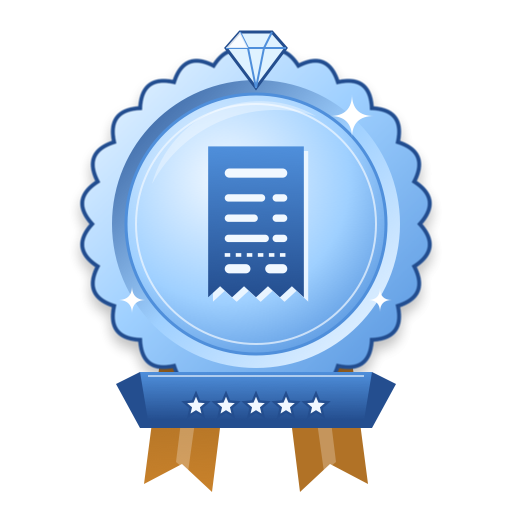
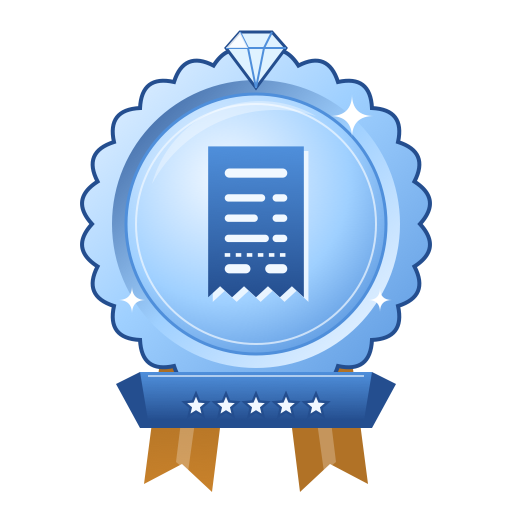
fix(dark mode): badge art on a transparent background (QuickLook put each on a white square); the map uses OpenFreeMap Dark in dark mode; cluster counts and the share tick in the paper colour

diff --git a/lib/features/places/presentation/pages/places_map_page.dart b/lib/features/places/presentation/pages/places_map_page.dart
@@ -34,13 +34,14 @@ import '../widgets/view_mode_button.dart';
 import '../location.dart';
 import '../../../shares/presentation/widgets/share_image.dart';
 
-/// OpenFreeMap: free vector tiles, no key, no request cap; its style carries the OpenStreetMap attribution.
-const _style = 'https://tiles.openfreemap.org/styles/liberty';
+/// OpenFreeMap: free vector tiles, no key, no request cap; its styles carry the OpenStreetMap attribution.
+/// Liberty in light mode, Dark in dark mode; a switch reloads the style, and [_styleLoaded] redraws our layers.
+String mapStyle(BuildContext context) =>
+    'https://tiles.openfreemap.org/styles/${Theme.of(context).brightness == Brightness.dark ? 'dark' : 'liberty'}';
 const malaysiaCamera = CameraPosition(target: LatLng(4.2, 102.0), zoom: 4.6);
 // The "you are here" dot. Drawn by us (not the native location component) so it appears as soon as
 // the permission result arrives, even when the map was created before permission was granted.
 const _hereColor = '#1E88E5';
-const mapStyle = _style;
 
 /// The box around every pinned branch; null when nothing has a pin.
 LatLngBounds? pinBounds(List<Place> places) {
@@ -506,11 +507,11 @@ class _PlacesMapPageState extends State<PlacesMapPage>
     await map.addSymbolLayer(
       _source,
       _countLayer,
-      const SymbolLayerProperties(
+      SymbolLayerProperties(
         textField: ['get', 'point_count_abbreviated'],
         textFont: ['Noto Sans Bold'], // in the OpenFreeMap style's glyphs
         textSize: 12,
-        textColor: '#FFFFFF',
+        textColor: _hex(nb.paper), // white on light mode's deep green, near-black on dark mode's pale green
         textAllowOverlap: true,
         textIgnorePlacement: true,
       ),
@@ -1025,7 +1026,7 @@ class _PlacesMapPageState extends State<PlacesMapPage>
         body: Stack(
           children: [
             MapLibreMap(
-              styleString: mapStyle,
+              styleString: mapStyle(context),
               initialCameraPosition: malaysiaCamera,
               onMapCreated: _created,
               onStyleLoadedCallback: _styleLoaded,

diff --git a/design/badges/svg2png.swift b/design/badges/svg2png.swift
@@ -1,0 +1,15 @@
+// Usage: swift svg2png.swift <size> <in.svg> <out.png> ... : renders each SVG with a transparent background.
+import AppKit
+let a = CommandLine.arguments, size = Int(a[1])!
+var i = 2
+while i + 1 < a.count {
+    guard let img = NSImage(contentsOf: URL(fileURLWithPath: a[i])) else { fatalError("cannot read \(a[i])") }
+    let rep = NSBitmapImageRep(bitmapDataPlanes: nil, pixelsWide: size, pixelsHigh: size, bitsPerSample: 8,
+        samplesPerPixel: 4, hasAlpha: true, isPlanar: false, colorSpaceName: .deviceRGB, bytesPerRow: 0, bitsPerPixel: 0)!
+    NSGraphicsContext.saveGraphicsState()
+    NSGraphicsContext.current = NSGraphicsContext(bitmapImageRep: rep)
+    img.draw(in: NSRect(x: 0, y: 0, width: size, height: size))
+    NSGraphicsContext.restoreGraphicsState()
+    try! rep.representation(using: .png, properties: [:])!.write(to: URL(fileURLWithPath: a[i + 1]))
+    i += 2
+}

diff --git a/test/features/achievements/badge_art_test.dart b/test/features/achievements/badge_art_test.dart
@@ -1,0 +1,27 @@
+import 'dart:io';
+import 'dart:ui' as ui;
+
+import 'package:flutter_test/flutter_test.dart';
+
+void main() {
+  // A badge on an opaque square shows a white tile in dark mode (QuickLook renders did).
+  test('every badge PNG has a transparent background', () async {
+    final files = Directory('assets/badges')
+        .listSync()
+        .whereType<File>()
+        .where((f) => f.path.endsWith('.png'));
+    expect(files, hasLength(30));
+    for (final f in files) {
+      final codec = await ui.instantiateImageCodec(f.readAsBytesSync());
+      final image = (await codec.getNextFrame()).image;
+      final rgba = (await image.toByteData(
+        format: ui.ImageByteFormat.rawRgba,
+      ))!;
+      expect(
+        rgba.getUint8(3),
+        0,
+        reason: '${f.path}: corner pixel is not transparent',
+      );
+    }
+  });
+}

diff --git a/lib/features/places/presentation/pages/pin_picker_page.dart b/lib/features/places/presentation/pages/pin_picker_page.dart
@@ -192,7 +192,7 @@ class _PinPickerPageState extends State<PinPickerPage> {
                   )
                 else
                   MapLibreMap(
-                    styleString: mapStyle,
+                    styleString: mapStyle(context),
                     initialCameraPosition: _camera!,
                     onMapCreated: _created,
                     onStyleLoadedCallback: _styleLoaded,

diff --git a/lib/features/shares/presentation/share_page.dart b/lib/features/shares/presentation/share_page.dart
@@ -222,7 +222,7 @@ class _SentState extends State<_Sent> with SingleTickerProviderStateMixin {
                 child: CircleAvatar(
                   radius: 22,
                   backgroundColor: nb.pandan,
-                  child: const Icon(Icons.check, color: Colors.white),
+                  child: Icon(Icons.check, color: nb.paper),
                 ),
               ),
             ),

diff --git a/design/badges/build.py b/design/badges/build.py
@@ -1,9 +1,9 @@
-"""Achievement badges: 6 categories x 5 tiers as SVG (design/badges/svg) and PNG (assets/badges, via macOS QuickLook).
+"""Achievement badges: 6 categories x 5 tiers as SVG (design/badges/svg) and PNG (assets/badges, transparent, via AppKit: svg2png.swift).
 
 Run from the app root: python3 design/badges/build.py
 Design: bukuresipi-hono docs/superpowers/specs/2026-11-09-achievements-design.md
 """
-import math, os, subprocess, shutil, tempfile
+import math, os, subprocess, shutil
 
 TIERS = {  # highlight, body, shadow, deep
     'bronze':   ('#F6C9A0', '#C98549', '#8A4F24', '#5A3115'),
@@ -188,12 +188,10 @@ def main():
             with open(p, 'w') as f:
                 f.write(badge(cat, tier))
             paths.append(p)
-    if shutil.which('qlmanage'):
-        with tempfile.TemporaryDirectory() as out:
-            subprocess.run(['qlmanage', '-t', '-s', '512', '-o', out, *paths], check=True, capture_output=True)
-            for p in paths:
-                name = os.path.basename(p)
-                shutil.move(os.path.join(out, name + '.png'), os.path.join(png_dir, name[:-4] + '.png'))
+    # AppKit keeps the transparent background (QuickLook put each badge on a white square: wrong in dark mode).
+    if shutil.which('swift'):
+        pairs = [x for p in paths for x in (p, os.path.join(png_dir, os.path.basename(p)[:-4] + '.png'))]
+        subprocess.run(['swift', os.path.join(root, 'svg2png.swift'), '512', *pairs], check=True)
     print(f'{len(paths)} badges')
 
 
